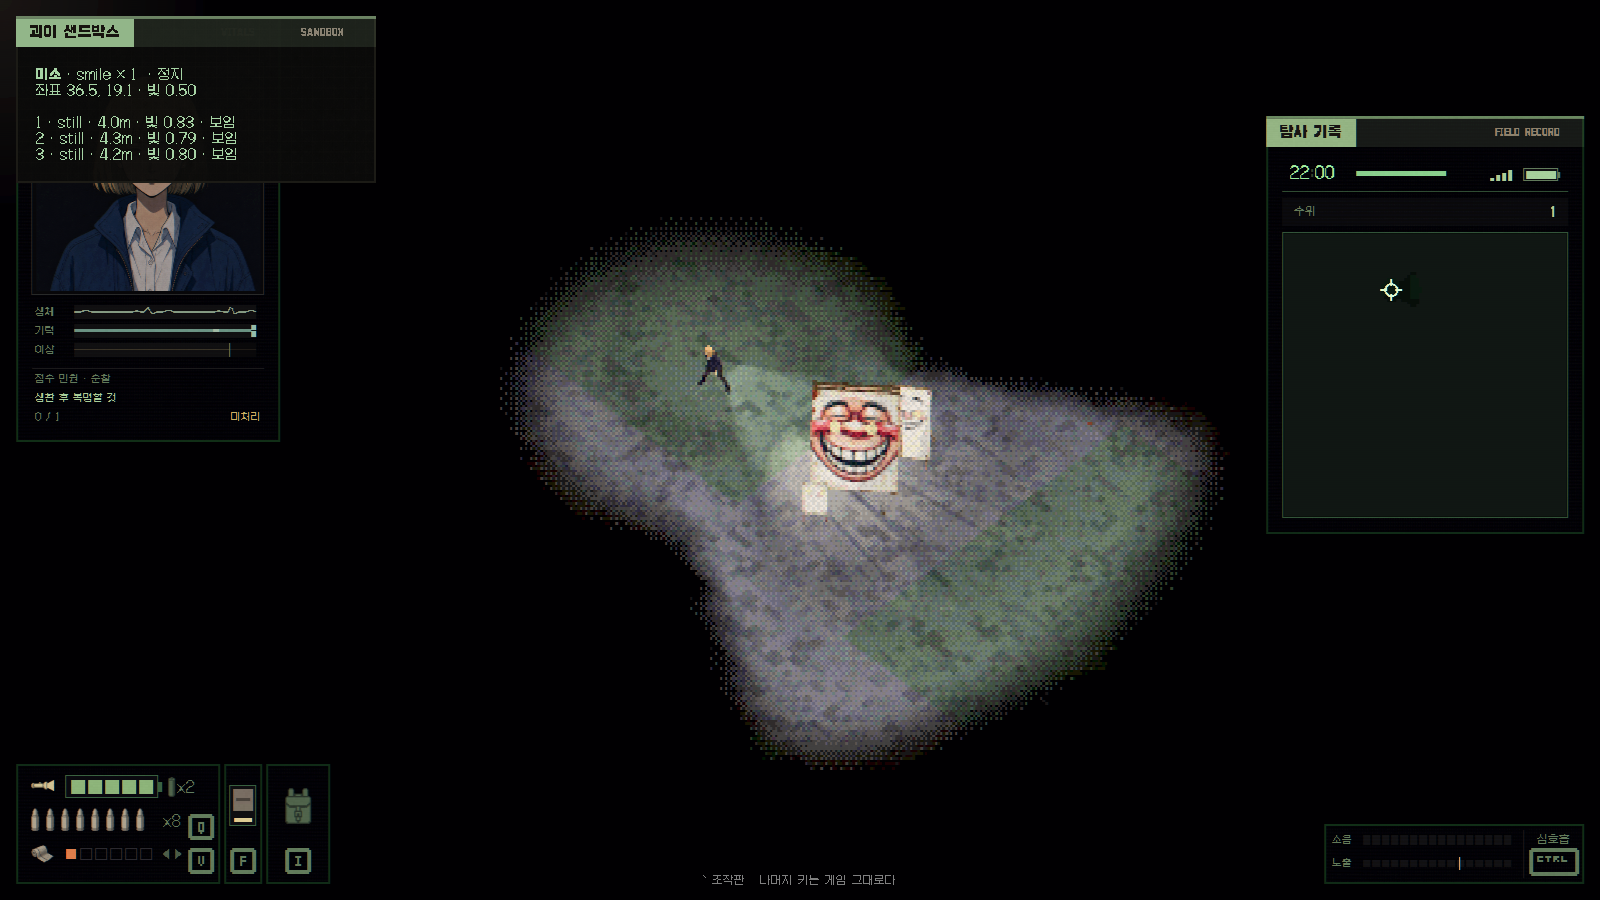
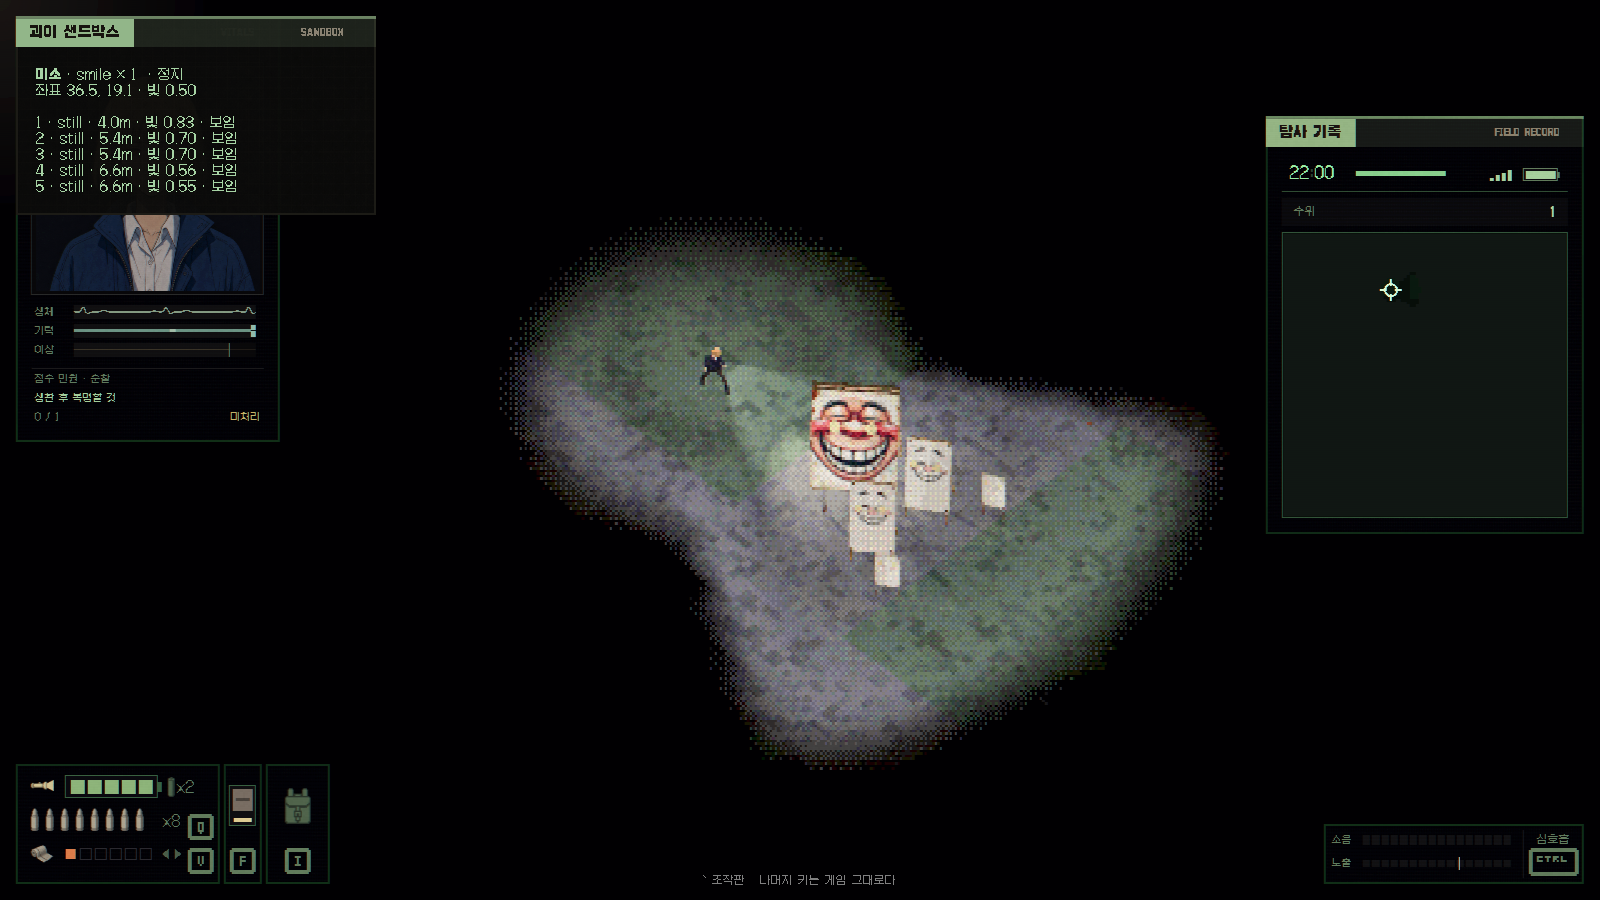
Correct Smile family limit (#32)

diff --git a/_posts/2026-08-08-smile-blocking-lineage.md b/_posts/2026-08-08-smile-blocking-lineage.md
@@ -6,8 +6,8 @@ project: "Civil Twilight"
 reading_time: "4분"
 summary: "총알은 튕기는데 몸은 통과하던 입간판 괴물에서 접촉 피해를 빼고, 오래 비출수록 작은 판이 나와 길을 막는 유한한 세대로 바꿨어요."
 cover: "/assets/posts/2026-08-08-smile-blocking-lineage/family.png"
-cover_alt: "크기가 다른 웃는 입간판 세 개가 손전등 안에서 요원 주변에 선 Civil Twilight 샌드박스 화면"
-cover_caption: "큰 판 하나에서 시작한 세 세대. 가장 큰 판이 중간 판을 한 번, 중간 판이 작은 판을 한 번 만든 뒤 모두 길에 남는다. 2026년 8월 8일 촬영."
+cover_alt: "크기가 다른 웃는 입간판 다섯 개가 손전등 안에서 요원 주변에 선 Civil Twilight 샌드박스 화면"
+cover_caption: "큰 판 하나에서 시작한 다섯 판. 큰 판은 중간 판 둘을, 중간 판은 작은 판을 하나씩 만든 뒤 모두 길에 남는다. 2026년 8월 8일 촬영."
 ---
 
 웃는 공사 안내판에 총을 쏘면 금속음과 함께 탄이 튕겼어요. 탄도도 그 자리에서
@@ -30,17 +30,18 @@ cover_caption: "큰 판 하나에서 시작한 세 세대. 가장 큰 판이 중
 한 장면에서 관계를 만들지는 못했어요.
 
 이번에는 가장 큰 판을 3세대, 중간 판을 2세대, 가장 작은 판을 1세대로 정했어요. 큰 판은
-빛을 계속 받으면 중간 판을 딱 한 번 만들고, 중간 판도 작은 판을 딱 한 번 만들어요.
-작은 판은 아무것도 만들지 못해요. 어느 판도 자라지 않으니 자연 개체 하나에서 나올 수
-있는 몸은 셋으로 끝나요.
+중간 판을 두 번 만들고, 중간 판 둘은 작은 판을 하나씩 만들어요. 작은 판은 아무것도
+만들지 못해요. 어느 판도 자라지 않으니 자연 개체 하나에서 나올 수 있는 몸은 다섯으로
+끝나요.
 
-새 판은 태어난 순간 받고 있던 빛을 번식 시간으로 물려받지 않아요. 빛이 몸에서 한 번
-떠난 뒤 다시 닿아야 다음 세대를 만들 수 있어요. 큰 판 하나를 계속 비춘 한 장면에서
-셋이 연달아 튀어나오면 무엇이 누구를 만들었는지 읽히지 않기 때문이에요.
+출산한 판과 새 판은 그 순간 받고 있던 빛을 다음 번식 시간으로 물려받지 않아요. 빛이
+몸에서 한 번 떠난 뒤 다시 닿아야 다음 판을 만들 수 있어요. 큰 판 하나를 계속 비춘
+한 장면에서 중간 판 둘이 연달아 튀어나오면 두 번째 출산이 별도 사건으로 읽히지 않기
+때문이에요.
 
 <figure>
-  <img src="{{ '/assets/posts/2026-08-08-smile-blocking-lineage/family.png' | relative_url }}" alt="손전등 안에서 큰 웃는 입간판과 양옆의 중간·작은 입간판이 함께 선 샌드박스 화면">
-  <figcaption>복제가 끝난 가족 화면. 가운데 3세대, 오른쪽 2세대, 왼쪽 아래 1세대가 서로 다른 몸으로 동시에 남는다. 2026년 8월 8일 촬영.</figcaption>
+  <img src="{{ '/assets/posts/2026-08-08-smile-blocking-lineage/family.png' | relative_url }}" alt="손전등 안에서 큰 웃는 입간판 하나와 중간·작은 입간판 둘씩이 함께 선 샌드박스 화면">
+  <figcaption>복제가 끝난 가족 화면. 큰 3세대 하나 뒤로 중간 2세대 둘과 작은 1세대 둘이 모두 남는다. 2026년 8월 8일 촬영.</figcaption>
 </figure>
 
 복제 자리는 부모 옆의 열린 공간 중에서 골라요. 걷을 수 있고 다른 몸과 겹치지 않는 것만으로
@@ -79,10 +80,10 @@ cover_caption: "큰 판 하나에서 시작한 세 세대. 가장 큰 판이 중
 첫 자동 캡처에서는 이 변화가 하나도 보이지 않았어요. 괴물 상태는 강제로 세웠지만
 손전등 방향을 고정하지 않아 화면에는 요원과 어두운 길만 남았어요. 캡처가 저장됐다는
 사실과 검수할 장면이 저장됐다는 사실은 달랐어요. 이후에는 매 프레임 부모를 겨누고,
-뒤뚱거림의 양 극과 복제 중간, 세 가족을 각각 고정해 찍었어요.
+뒤뚱거림의 양 극과 복제 중간, 다섯 판의 가족 화면을 각각 고정해 찍었어요.
 
-아직 모르는 것은 영구 장애물이 주요 통로를 닫는 빈도예요. 지금은 한 자연 개체가 셋을
+아직 모르는 것은 영구 장애물이 주요 통로를 닫는 빈도예요. 지금은 한 자연 개체가 다섯을
 넘지 않고, 출생 자리가 보이고 비어 있을 때만 판이 나와요. 그래도 좁은 골목에서 탄 판
-셋이 선택이 아니라 진행 중단이 될 수 있어요. 그런 장면이 반복된다면 먼저 배치와 몸의
+다섯이 선택이 아니라 진행 중단이 될 수 있어요. 그런 장면이 반복된다면 먼저 배치와 몸의
 폭을 다시 볼 생각이에요. 증식 상한을 풀거나 접촉 피해를 되돌리는 쪽은 이 괴물을 다시
 예전의 공격 숫자로 돌려놓아요.
